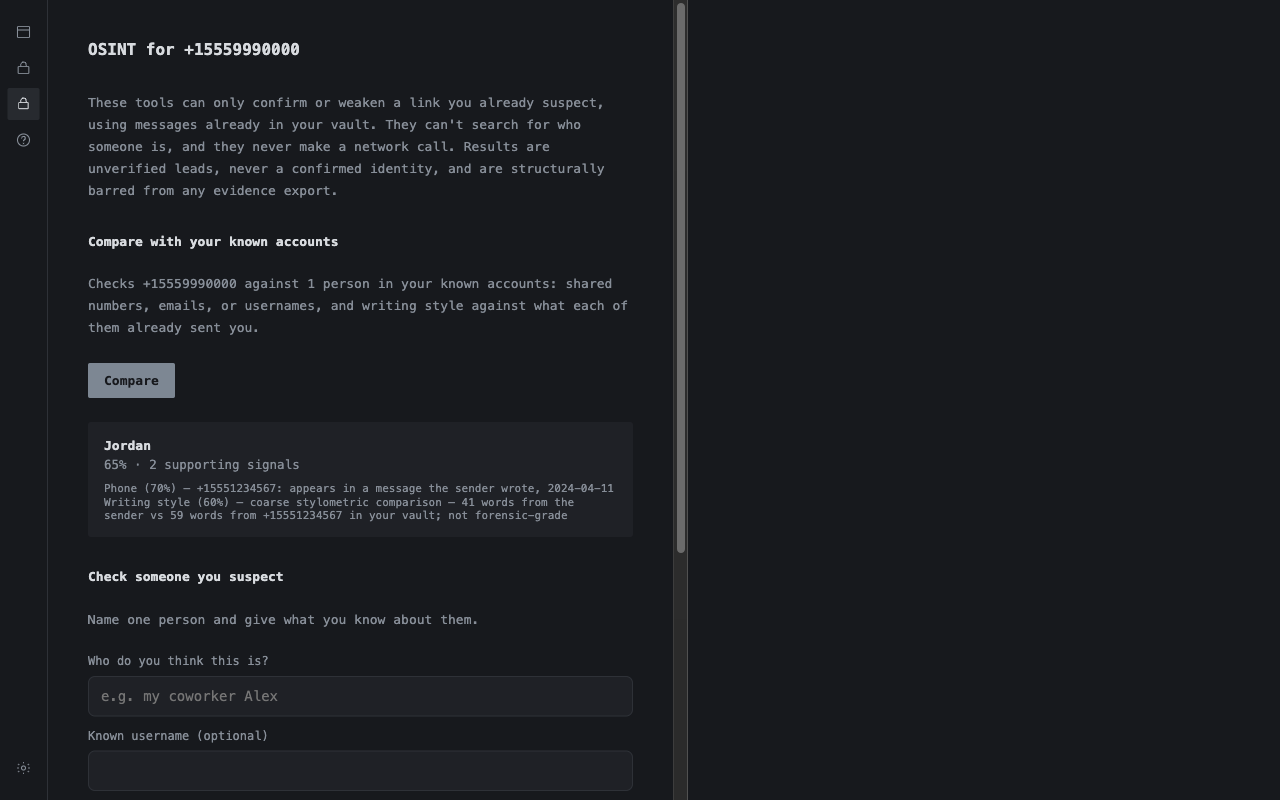
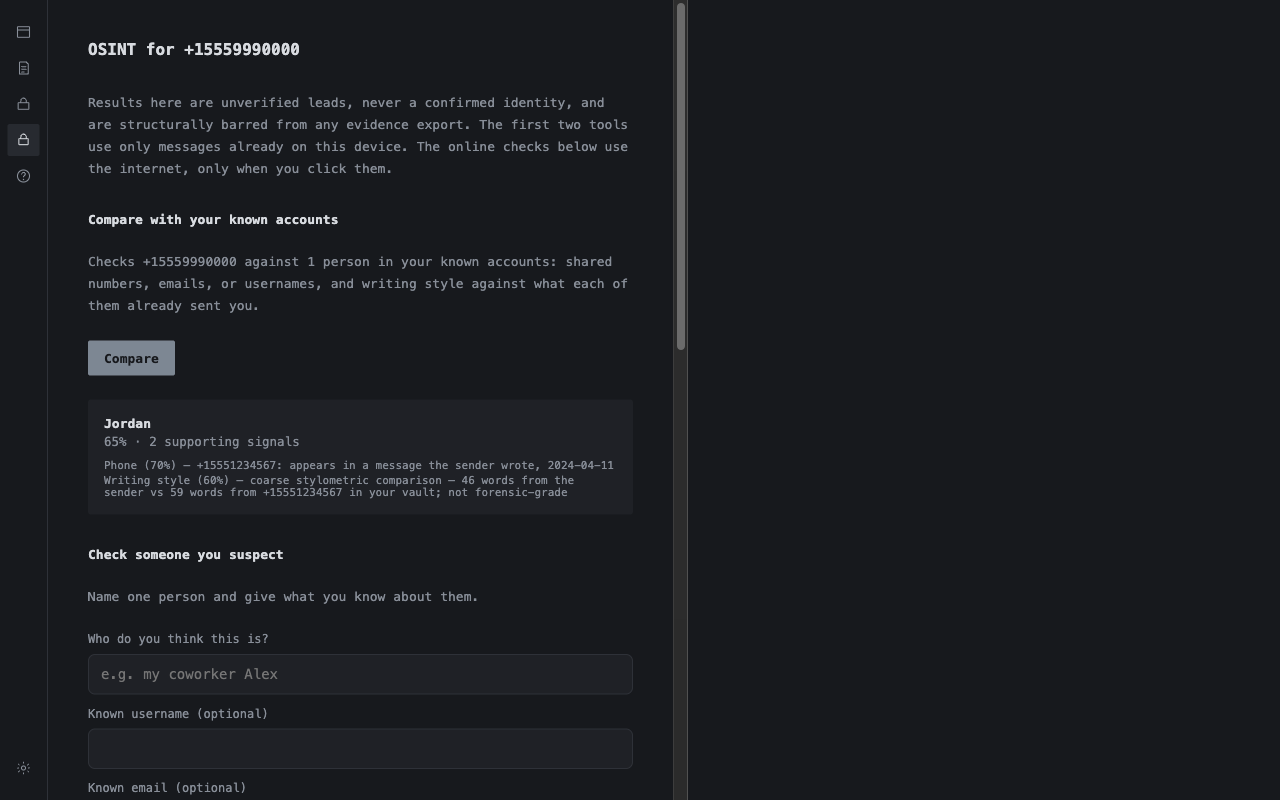
Document the model and online checks; refresh screenshots

diff --git a/docs/index.html b/docs/index.html
@@ -260,8 +260,9 @@
       coparent, a relative, a coworker. It scores incoming messages so you don't have to read all
       of it yourself, preserves what you choose to keep in a form built to survive a
       chain-of-custody challenge, and — only when tightly gated — helps you check whether a new
-      number or account is someone you already blocked. There's no cloud and no account: the only
-      connection it makes is to your own email provider, if you connect email.
+      number or account is someone you already blocked. There's no cloud and no account. It connects
+      to your own email provider if you connect email, and to the sites an OSINT online check names,
+      only when you click it.
     </p>
     <div class="cta-row">
       <a class="btn btn--primary" href="https://github.com/erikleon/docket/releases">Download</a>
@@ -275,13 +276,12 @@
 <section id="screens">
   <div class="wrap">
     <h2>See it</h2>
-    <p class="shots-note">Screenshots from the real app with made-up demo data. No classifier model ships with the
-      app yet, so for these the newest sender was marked as over the abuse threshold by hand. That's what
-      turns on the High label and the OSINT check below.</p>
+    <p class="shots-note">Screenshots from the real app with made-up demo data. Every label and reason is
+      the app's own, including the High label from the toxicity model that runs on your device.</p>
     <div class="shots">
       <figure>
         <a href="screenshots/triage.png"><img src="screenshots/triage.png" width="1280" height="800" loading="lazy"
-          alt="Triage screen. Three threads under Needs review. The top one is labeled High, with the reason: sent after a boundary the user marked. Message previews are blurred; the open thread on the right shows three messages from a new number."></a>
+          alt="Triage screen. Three threads under Needs review. The top one is labeled High, with the reason: the toxicity model reads it as hostile language. Message previews are blurred; the open thread on the right shows three messages from a new number."></a>
         <figcaption>Triage: every flagged thread says why it was flagged. Previews stay blurred until you choose to read them.</figcaption>
       </figure>
       <figure>
@@ -330,14 +330,15 @@
 
     <div class="capability">
       <div class="n">03</div>
-      <h3>OSINT, gated — and verify-mode, not search-mode</h3>
-      <p>Only unlocks for someone already flagged as abusive in your own vault. Even then, it can't
-        look anyone up from scratch. It compares a new number or account with the people you already
-        blocked — imported from your Mac's block list or an Instagram export — or with one candidate you
-        name, using only messages already in your vault: a reused number or username, a matching email,
-        a similar writing style. Every result is labeled an unverified lead, never a
-        confirmed identity, and every check runs on your device with no network call at all. This
-        gate is friction against casual misuse, not proof of who someone is.</p>
+      <h3>OSINT, gated</h3>
+      <p>Only unlocks for someone already flagged as abusive in your own vault. On your device, it
+        compares a new number or account with the people you already blocked — imported from your
+        Mac's block list or an Instagram export — or with one candidate you name: a reused number or
+        username, a matching email, a similar writing style. Two optional online checks run only when
+        you click them, and say what they contact first: it flags IP-logging and malicious links in
+        their messages without ever opening them, and it checks which sites a username exists on.
+        Every result is labeled an unverified lead, never a confirmed identity. This gate is friction
+        against casual misuse, not proof of who someone is.</p>
     </div>
   </div>
 </section>
@@ -349,14 +350,16 @@
    │
    ├─ INGEST   scoped to threads you pick, not your whole history
    │
-   ├─ SCORE    local classifier + pattern detectors, no network
+   ├─ SCORE    toxicity model on your device + pattern detectors, no network
    │
    ├─ TRIAGE   neutral app name/icon, no notifications, panic-hide hotkey
    │
    ├─ VAULT    encrypted, append-only, passphrase ≠ your device login
    │
-   └─ OSINT   verify-mode today — checks a candidate you name against
-              your own vault data, no network call at all</pre>
+   └─ OSINT    comparisons against your own vault, no network; and
+              <span class="warn">two online checks, only when you click them</span>:
+              public threat lists (downloaded, links never sent or opened)
+              and a username lookup on 19 named sites</pre>
   </div>
 </section>
 
@@ -368,8 +371,9 @@
       <div class="status-row"><span class="badge badge--done">Built</span><span class="label">Keyboard-driven triage<span>Arrow keys or j/k to move, Enter to open, r to mark reviewed, h to hide — one at a time or batch-selected. Previews are blurred by default.</span></span></div>
       <div class="status-row"><span class="badge badge--done">Built</span><span class="label">Boundaries and inactivity auto-lock<span>You author boundaries and tagged phrases from Settings; the vault locks itself after an idle timeout (default 15 minutes) with a manual "Lock now" too.</span></span></div>
       <div class="status-row"><span class="badge badge--planned">By design</span><span class="label">No coerced-unlock / duress passphrase<span>Considered and turned down — a decoy vault or duress wipe both have real failure modes under pressure. The actual mitigation is the panic-hide hotkey, disclosed on the app's own Support screen. See DESIGN.md.</span></span></div>
+      <div class="status-row"><span class="badge badge--done">Built</span><span class="label">Toxicity model on your device<span>A 23 MB model (MiniLM, Apache-2.0) ships with the app and scores messages locally. It flags threats and insults; ordinary swearing between friends is discounted. It does not catch polite-sounding coercion — the pattern detectors and your boundaries are for that.</span></span></div>
       <div class="status-row"><span class="badge badge--done">Built</span><span class="label">Incident log<span>Write down what no message records — a visit, a call, a missed exchange. Nothing is deleted or overwritten, and a time that falls on a clock change is asked about, never guessed. Entries go into the evidence export.</span></span></div>
-      <div class="status-row"><span class="badge badge--done">Built</span><span class="label">OSINT candidate check (verify-mode)<span>Name a candidate you already suspect; it's checked against your vault data only — reused username/email/phone, or a writing-style comparison. No network call, and it can't look anyone up from a bare identifier.</span></span></div>
+      <div class="status-row"><span class="badge badge--done">Built</span><span class="label">OSINT: known accounts, candidate check, online checks<span>Compares a flagged sender with people you blocked or name, on your device. Optional online checks flag IP-logging and malicious links (without opening them) and look up where a username exists — each runs only on a click and says what it contacts.</span></span></div>
       <div class="status-row"><span class="badge badge--done">Built</span><span class="label">Known accounts from your block lists<span>Import the contacts you blocked in Messages on a Mac, or on Instagram. Onboarding flags them first, and OSINT compares a new number or account with each person you've blocked — shared identifiers and writing style, all on your device.</span></span></div>
       <div class="status-row"><span class="badge badge--planned">Not built</span><span class="label">Photo-based OSINT signal<span>Matching a candidate by photo would need real image fetching or facial recognition — the latter is legally restricted in several jurisdictions. Treated as its own future decision, not bundled with the signals above.</span></span></div>
       <div class="status-row"><span class="badge badge--done">Built</span><span class="label">Packaged installers (unsigned)<span>A macOS .dmg, Windows installer, and Linux .AppImage are built on every tagged release. No paid signing certificate, so the OS shows a one-time warning on first launch — see the README.</span></span></div>

diff --git a/README.md b/README.md
@@ -16,9 +16,9 @@ from `docs/`.
 | --- | --- |
 | ![Onboarding picker with a sender marked "Blocked on this Mac", selected first](docs/screenshots/onboarding-blocked.png) | ![OSINT compare result: one lead at 65% from a phone mention and writing style](docs/screenshots/osint-compare.png) |
 
-Screenshots use made-up demo data. No classifier model ships yet, so the
-newest sender was marked as over the abuse threshold by hand; that's what
-shows the High label and unlocks OSINT. `scripts/capture-screenshots.mjs`
+Screenshots use made-up demo data; every label and reason in them is the
+app's own, including the High label from the toxicity model.
+`scripts/capture-screenshots.mjs`
 rebuilds them from the real app, and `scripts/render-og-card.mjs` rebuilds
 the link-preview card (`docs/og-image.png`).
 
@@ -51,15 +51,22 @@ tested. The Electron app runs a real flow end to end:
 - **Vault auto-lock** — configurable inactivity timeout (default 15
   minutes, 0 disables it), plus a manual "Lock now."
 - **Export, the OSINT gate, and remove-local-app-data** are real.
-- **OSINT is verify-mode, not search-mode** — you name a candidate you
-  already suspect (a known username, email, phone, and/or a writing
-  sample you believe is theirs) and the app checks only whether messages
-  already in your vault support that one hypothesis. It cannot look
-  anyone up from a bare identifier; that's deliberate, not a missing
-  feature — see DESIGN.md's OSINT section for why. Every check runs
-  locally, no network call. `profile-photo-match` (facial recognition or
-  image search) is the one signal type this doesn't cover, and is left
-  as a separate, unbuilt decision — see TODOS.md.
+- **Toxicity model, on the device** — a 23 MB MiniLM model
+  (`minuva/MiniLMv2-toxic-jigsaw-onnx`, Apache-2.0, pinned in
+  `models/toxicity.json`) ships inside the installers and scores messages
+  in the background after unlock and after every import. It flags threats
+  and insults; swearing alone is discounted so friends aren't flagged. It
+  does not catch polite-sounding coercion ("I know where you're staying
+  now") — the pattern detectors and your boundaries are for that. Its
+  label shows as the reason in triage, and Settings shows its status.
+- **OSINT** — only for a sender the model (or an import-time score) put
+  over the abuse threshold. On the device: compare with your known
+  accounts, or check one candidate you name. Online, only on a click and
+  after saying what it contacts: flag IP-logging, malicious, and phishing
+  links in their messages (built-in lists offline; public lists
+  downloaded and matched on the device — a link is never opened or sent),
+  and check which of 19 named sites a username exists on. Every result is
+  an unverified lead. `profile-photo-match` stays unbuilt — see TODOS.md.
 - **Known accounts** — the accounts you know belong to someone
   harassing you, usually ones you blocked. Import them from this Mac's
   Messages block list or an Instagram export's block list, or type them
@@ -134,6 +141,15 @@ Newer npm versions ask before running a package's install scripts
 `better-sqlite3` ships prebuilt binaries for macOS, Windows, and Linux,
 and Electron downloads its own binary the first time it runs.
 
+### The toxicity model
+
+`npm test` and `npm run build` first run `npm run fetch-model`, which
+downloads the model files listed in `models/toxicity.json` (23 MB, from
+a pinned Hugging Face revision) into `models/toxicity/` and checks each
+file's SHA-256. It needs the network once; after that it's a no-op.
+The files aren't committed. Installers bundle them, and the installed
+app never downloads anything.
+
 ## Structure
 
 ```
@@ -174,7 +190,10 @@ qa-reports/ Test plans and dated /qa pass reports
 ## Design constraints worth knowing before touching this code
 
 - Nothing in `ingest`, `score`, `vault`, or the triage UI ever makes a
-  network call. Only `osint` does, and it must say so visibly when it runs.
+  network call (IMAP talks to the user's own mail server, nothing else).
+  Only `osint/network/` does, only from a click in the OSINT screen, and
+  the screen says what it will contact before it runs. The renderer's
+  CSP allows it no network at all; requests go from the main process.
 - The vault has no delete method anywhere in its API. "Hide" is a UI-only
   view-state flag.
 - The OSINT gate (`osint/unlock.ts`) is friction against casual misuse, not

diff --git a/TODOS.md b/TODOS.md
@@ -765,3 +765,65 @@ Filed on strictdatetime:
 [#6](https://github.com/erikleon/strictdatetime/issues/6) — plain time
 parsers reject "HH:MM", the format a datetime-local input produces.
 
+
+## 23. ~~Ship a toxicity model~~ DONE 2026-09-25
+
+Before this, no model shipped: no message was ever scored, no sender ever
+crossed the abuse threshold, and OSINT could never unlock for a real
+user.
+
+- **Model:** `minuva/MiniLMv2-toxic-jigsaw-onnx` (Apache-2.0, 23 MB
+  quantized, distilled from `unitary/toxic-bert`, ROC-AUC 0.9860 vs the
+  teacher's 0.9864 on Jigsaw). Six independent labels including
+  "threat". Pinned by revision and SHA-256 in `models/toxicity.json`;
+  `scripts/fetch-model.mjs` downloads it for development and CI (cached
+  by the manifest's hash); installers bundle it as an extra resource, and
+  the app checks every file's hash before loading.
+- **Tokenizer:** Hugging Face's own `@huggingface/tokenizers` (Apache-2.0,
+  no dependencies) reading the model's `tokenizer.json`; checked against
+  reference token ids. It ignores the 512-token limit, so the classifier
+  scores long text in windows, plus each sentence alone — a threat at the
+  end of a long, calm email scored under the threshold inside a window of
+  ordinary text.
+- **Calibration found on real examples:** raw "toxic" fires on swearing
+  alone ("lol fuck yes, see you there" 0.98), which would have flagged
+  friends and opened OSINT on them. "toxic" now counts only as
+  toxic × (1 − obscene); threat and insult are unchanged. Friendly
+  swearing drops to 0.06–0.24; "you better watch your back tonight"
+  stays Medium. Polite coercion ("I know where you're staying now")
+  scores near zero — a documented limit, covered by the structural
+  signals.
+- **Scores are stored apart from evidence** (`message_scores`, written
+  only by `vault/message-scores.ts`), so `sqlite-store.ts` keeps its
+  enforced no-UPDATE rule. A background pass scores anything the current
+  model hasn't, after unlock and after each import; a model change
+  rescores everything. The user's own messages are never scored, and
+  `isAbusiveSender` now ignores them: on Android SMS a sent message's
+  `sender` is the other person's number, so an angry reply would have
+  marked them abusive.
+- Verified: 19 real-model unit tests, scoring-pass and service tests,
+  `test/e2e/toxicity-model.spec.ts` (an imported threat → High with the
+  model's reason → OSINT opens; a friend's swearing doesn't), and a
+  packaged macOS build scoring with the bundled model.
+
+Now reachable in practice, worth watching: `detectNewCorrelatedIdentifiers`
+marks any sender whose first message arrives within 72 hours after a
+known-abusive sender's last one as Medium ("unverified correlation"). With
+no model it never fired; with one, it will flag some innocent new
+contacts. The window was never tuned.
+
+## 24. ~~OSINT online checks: link safety and username presence~~ DONE 2026-09-25
+
+See DESIGN.md "Online checks". `src/osint/network/` (`http.ts`,
+`link-safety.ts`, `username-presence.ts`), five gated IPC channels, and
+the "Online checks" section at the end of the unlocked OSINT screen.
+Verified with 15 unit tests on a fake network (including that no
+message link is ever requested and a failed list download is reported,
+not hidden), `test/e2e/osint-online.spec.ts` (offline part only), and a
+live run: a Grabify link flagged by the built-in list and both downloaded
+lists, a bit.ly link flagged only as a short link, all five lists
+downloaded, all 19 sites answered.
+
+Open: docket has no license file. The downloaded IP-logger lists are GPL,
+which is one reason they're downloaded rather than copied in; choosing a
+license for docket itself is the owner's call.

diff --git a/DESIGN.md b/DESIGN.md
@@ -199,6 +199,37 @@ ever built, and is treated as its own future decision, not bundled here.
 Explicit copy states results can't enter an evidence export — matches the
 structural code-level barrier, not just a UI suggestion.
 
+**Online checks (decided 2026-09-25 by the project owner, reversing the
+local-only part of the decision above).** Two checks, chosen from four
+offered (phone line type and email exposure were turned down):
+
+- **Links in their messages.** Built-in IP-logger and shortener lists
+  run offline and show as soon as the screen opens. "Check against
+  public threat lists" downloads five public lists whole (two IP-logger
+  lists, two URLhaus lists, OpenPhish) and matches on the device. A link
+  from a message is never opened, expanded, previewed, or sent anywhere:
+  opening an IP-logging link hands the victim's location to the sender,
+  and even a shortener's redirect counts as a click its owner can see.
+  URLhaus's lookup API now needs an account key, and the downloaded list
+  is more private anyway. The GPL IP-logger lists are downloaded, not
+  copied into the repository.
+- **Where does a username exist?** Asks 19 sites directly whether a
+  handle is taken. Each site was kept only after answering differently
+  for real and random handles on 2026-09-25. Sites that answer the same
+  for every handle without a login are named as "not checked" so their
+  absence never reads as "not found", and anything unexpected is
+  "couldn't tell", never "not found". Every result says a taken name
+  isn't the same person.
+
+What limits them: both stay behind the abuse-threshold gate; each runs
+only on a click; the screen names what it contacts before the click
+(the "generates internet traffic" rule from the plan, now true here);
+requests go from the main process, so the renderer's CSP still allows no
+network; tests use a fake network and never depend on third-party sites.
+This is closer to search-mode than verify-mode for usernames. The owner
+decided that trade-off; the gate and the per-result caveat are what's
+left of the earlier reasoning.
+
 **Known accounts (added 2026-09-24 — see TODOS.md item 19):** the most
 common pattern this app sees is not a stranger. It is someone the user
 already blocked who comes back from a new number or a new account. So
